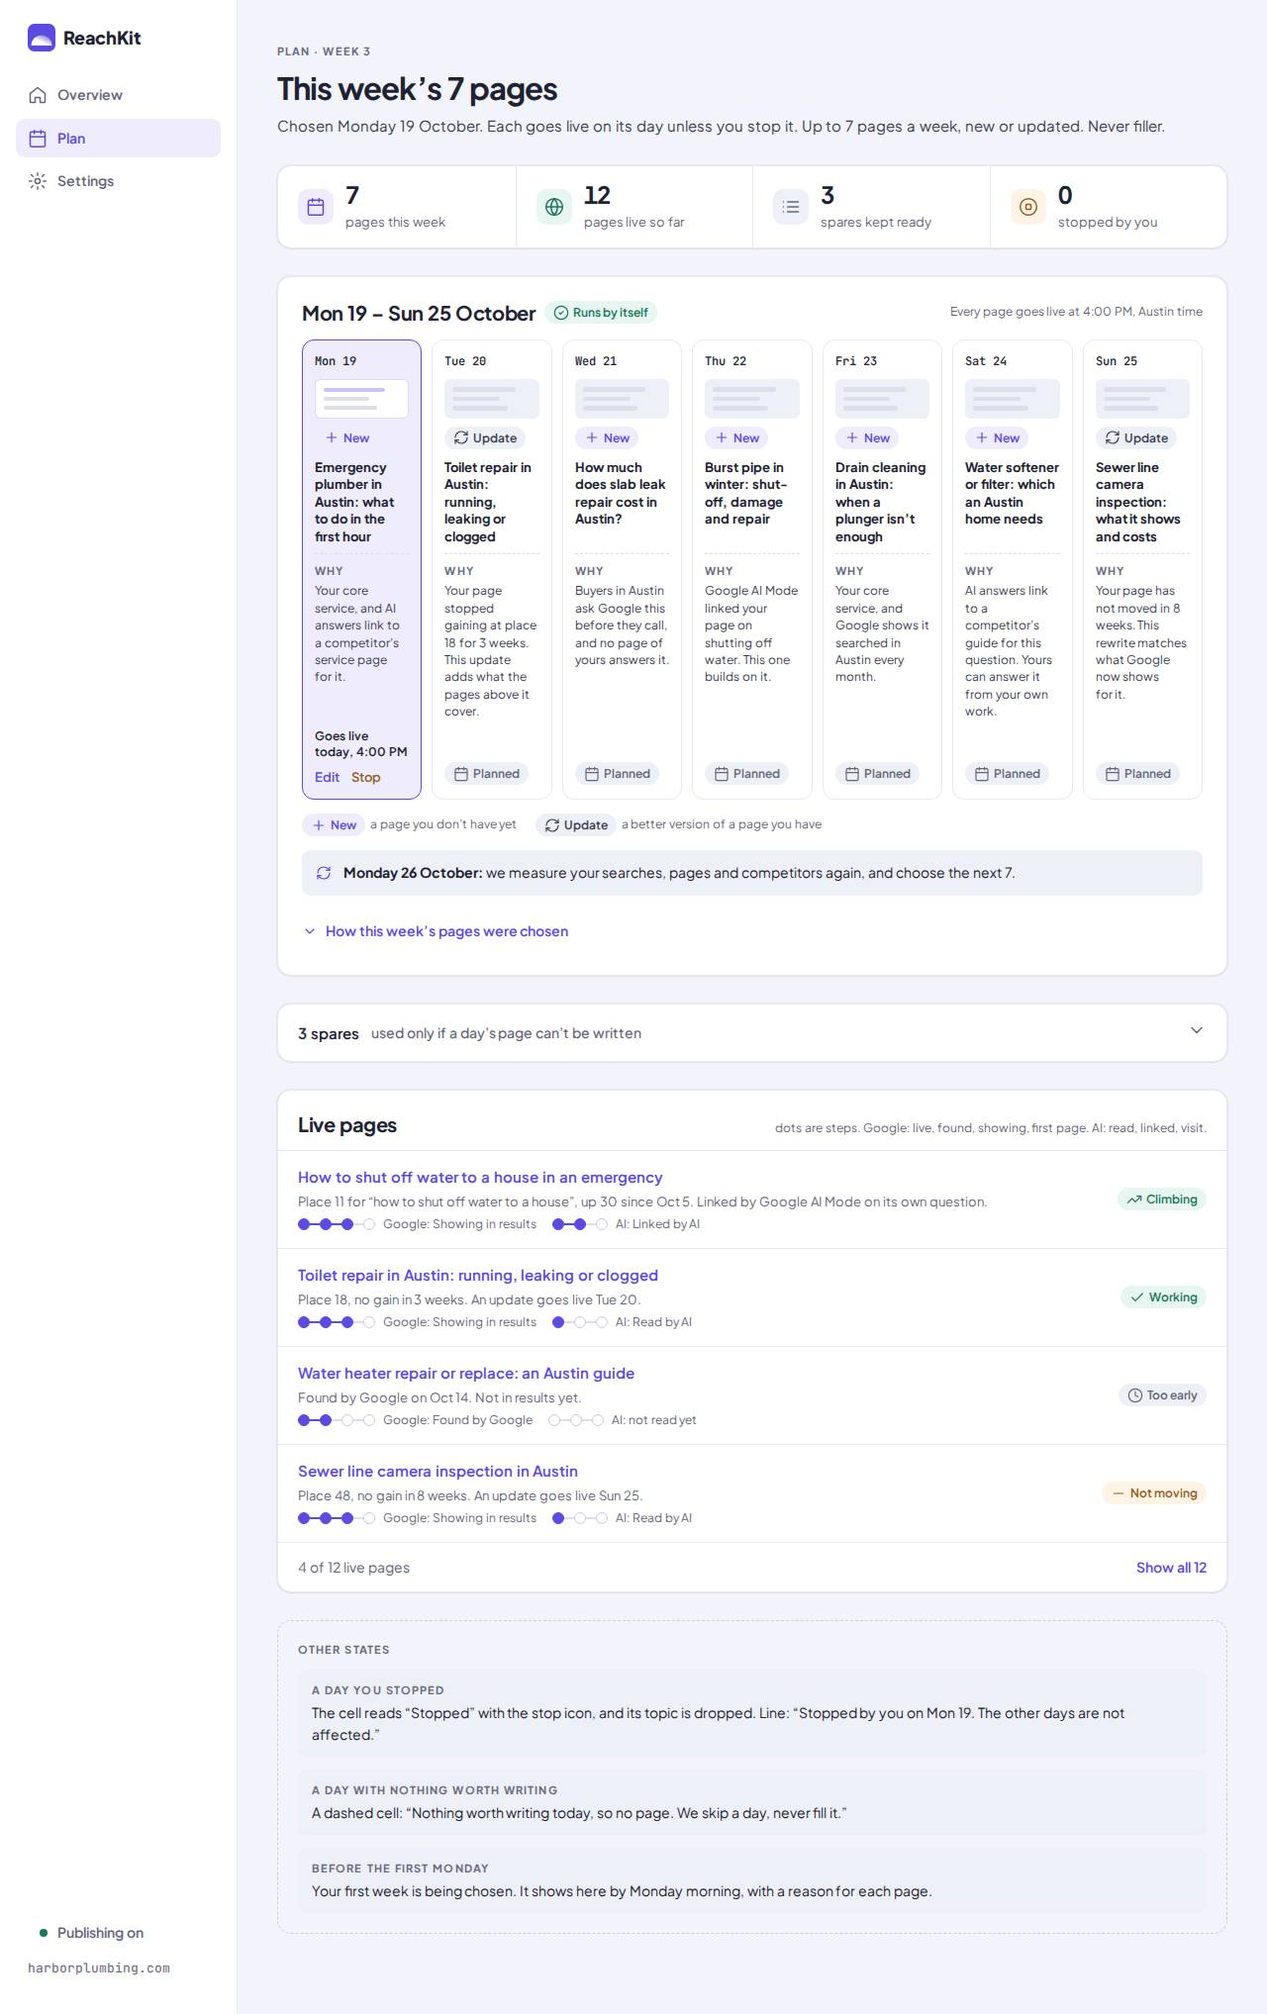
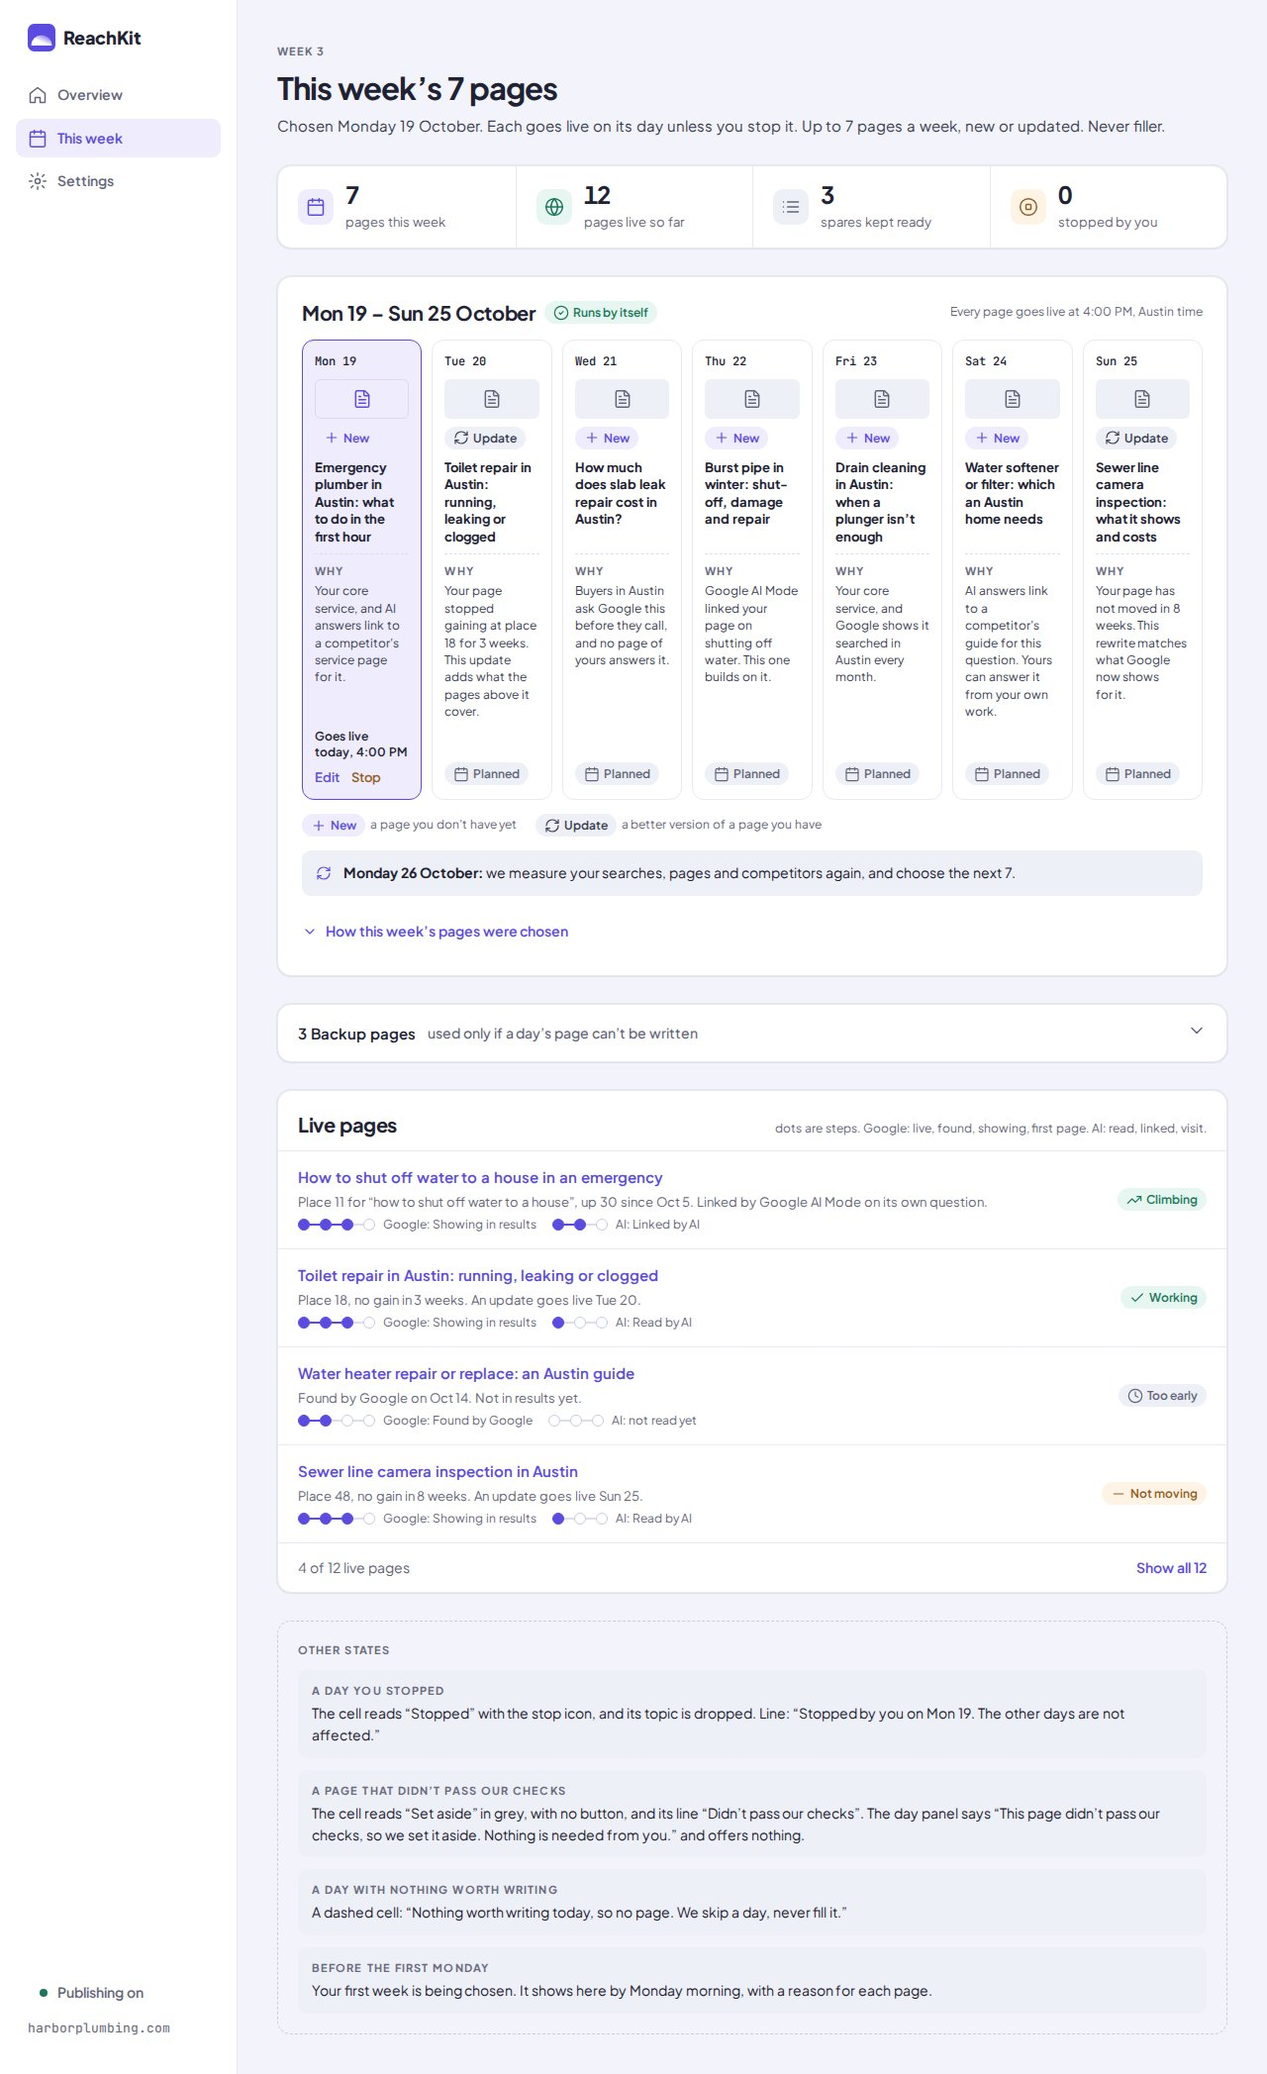
feat(app): the draft screen names a page's stage as This week does, and the boards draw a page set aside (O7)
The draft chip is the stage This week reads from the same row: a cause the
system rescues reads Planned, a page the re-check set aside wears the grey
Set aside chip with nothing to press, and a critical or unread cause still
reads Needs you. Board Plan names the set-aside day in its other states, and
board MondayMail draws the set-aside line after the published count; the
weekly preview carries one page set aside so the mail ships that line.

diff --git a/tests/app/draft/stage-chip.test.tsx b/tests/app/draft/stage-chip.test.tsx
@@ -1,0 +1,88 @@
+/** @vitest-environment jsdom */
+// Owner O7 on the draft screen: a page's chip is the stage This week names it at, read from the same stored row, so
+// a cause the system rescues or sets aside never reads Needs you, and a critical or unread one still does.
+import React from "react";
+import { renderToStaticMarkup } from "react-dom/server";
+import { afterEach, beforeEach, describe, expect, it, vi } from "vitest";
+import { fakeDb, type Row } from "../../publish/harness";
+import stored from "../../generate/fixtures/dogfood-drafts-2026-10.min.json";
+
+const db = fakeDb();
+vi.mock("@/lib/db", () => ({ dbAdmin: () => db.client, db: () => db.client }));
+vi.mock("@/app/(account)/app/draft/[draftId]/save", async (importOriginal) => {
+  const actual = await importOriginal<typeof import("@/app/(account)/app/draft/[draftId]/save")>();
+  return { ...actual, draftStore: { save: () => Promise.resolve() } };
+});
+
+import { COPY } from "@/lib/presentation/copy";
+import { readDraftRow } from "@/app/(account)/app/draft/[draftId]/store";
+import { assembleDraft } from "@/app/(account)/app/draft/[draftId]/model";
+import { DraftScreen } from "@/app/(account)/app/draft/[draftId]/DraftScreen";
+import { scheduledPagesFor } from "@/lib/publish/record";
+import { stageOf } from "@/app/(account)/app/calendar/stages";
+
+const NOW = new Date("2026-11-01T09:00:00.000Z");
+const SITE = { siteId: "site-1", timeZone: "UTC", mode: "autopilot" as const, domain: "example.com" };
+const PAGE = stored.drafts.find((draft) => draft.id.startsWith("d98284cc"))!;
+
+/** The stored page, with the moves and meta the named cause leaves on its row. */
+const as = (moves: Row[], meta: Row = {}): Row => ({
+  ...PAGE,
+  site_id: SITE.siteId,
+  state: moves.at(-1)?.to ?? PAGE.state,
+  meta: { ...PAGE.meta, ...meta },
+  transitions: [...PAGE.transitions, ...moves],
+  claim_check: null,
+  veto_deadline: null,
+  told: null,
+});
+const move = (from: string, to: string, reason: string, at = "2026-10-31T09:00:00.000Z"): Row => ({ at, from, to, actor: { kind: "system", job: "test" }, reason });
+const tried = [move("needs_attention", "generating", "customer_regenerate"), move("generating", "in_review", "rules_passed"), move("in_review", "approved", "window_closed"), move("approved", "publishing", "due"), move("publishing", "failed", "error")];
+
+const CASES = [
+  ["stopped by the writing rules, unedited", "planned", as([])],
+  ["a publish tried out yesterday, inside its daily re-attempts", "planned", as([...tried, move("failed", "needs_attention", "retries_exhausted")])],
+  ["set aside by the daily re-check", "set_aside", as([move("needs_attention", "skipped", "retired:plain_prose")])],
+  ["a destination the customer must fix", "needs_you", as([...tried, move("failed", "needs_attention", "reason_needs_customer")])],
+  ["the customer's own edit", "needs_you", as([], { first_edited_at: "2026-10-30T10:00:00.000Z" })],
+  ["a cause this build cannot read", "needs_you", as([move("needs_attention", "generating", "customer_regenerate"), move("generating", "needs_attention", "something_new")])],
+] as const;
+
+async function chip(row: Row): Promise<Element> {
+  db.seed("drafts", [row]);
+  const facts = await readDraftRow({ draftId: PAGE.id, site: SITE });
+  if (facts === null) throw new Error("the stored page did not read back");
+  const root = document.createElement("div");
+  root.innerHTML = renderToStaticMarkup(<DraftScreen view={assembleDraft(facts)} generatedLabel="written by ReachKit" />);
+  return root;
+}
+
+beforeEach(() => {
+  db.reset();
+  vi.useFakeTimers({ toFake: ["Date"] });
+  vi.setSystemTime(NOW);
+});
+afterEach(() => vi.useRealTimers());
+
+describe("the draft screen names a page's stage as This week does (owner O7)", () => {
+  it.each(CASES)("a page %s wears the %s chip, and only a critical cause reads Needs you", async (_case, stage, row) => {
+    const root = await chip(row);
+    const badge = root.querySelector('[data-testid^="draft-stage-"]');
+    expect(badge?.getAttribute("data-testid")).toBe(`draft-stage-${stage}`);
+    expect(root.textContent?.includes(COPY["calendar.stage.needs-you"])).toBe(stage === "needs_you");
+  });
+
+  it("a page set aside wears the grey Set aside chip and offers nothing to press", async () => {
+    const root = await chip(CASES[2][2]);
+    const badge = root.querySelector('[data-testid="draft-stage-set_aside"]')!;
+    expect([badge.textContent, badge.classList.contains("badge-ghost")]).toEqual([COPY["calendar.day.set-aside"], true]);
+    expect(root.querySelector('[data-testid="draft-actions"]')).toBeNull();
+  });
+
+  it.each(CASES)("a page %s reads the same on the draft screen and in the calendar's month read", async (_case, _stage, row) => {
+    const root = await chip(row);
+    const [page] = await scheduledPagesFor({ siteId: SITE.siteId, from: "2026-10-01", to: "2026-10-31", now: NOW });
+    const calendar = page.setAside ? "set_aside" : stageOf(page, NOW);
+    expect(root.querySelector('[data-testid^="draft-stage-"]')?.getAttribute("data-testid")).toBe(`draft-stage-${calendar}`);
+  });
+});

diff --git a/src/app/(account)/app/draft/[draftId]/DraftScreen.tsx b/src/app/(account)/app/draft/[draftId]/DraftScreen.tsx
@@ -59,13 +59,7 @@ import {
 } from "../../_shell/format";
 import { writtenLine } from "../../_shell/written";
 import { COMMAND_TARGET, publishing } from "../../calendar/publishing";
-import {
-  STAGE_FILTER_COPY_KEY,
-  STAGE_BEACON,
-  STAGE_OF,
-  STAGE_TONE,
-  TONE_BADGE,
-} from "../../calendar/stages";
+import { STAGE_OF, TONE_BADGE } from "../../calendar/stages";
 import { say } from "../../../../_toast/say";
 import { CLAIM_COPY_KEY, CLAIM_TONE, claimAfterSave } from "./claim";
 import { DecidePanel } from "./DecidePanel";
@@ -84,7 +78,7 @@ import { kindWord } from "../../calendar/card-lines";
 import { NO_LINK_RECORD, linksOnPage } from "./links-panel";
 import { useDebounced } from "./useDebounced";
 import { SHAPE } from "./shape";
-import { wordCount, type ClaimState, type DraftView } from "./model";
+import { stageChipOf, wordCount, type ClaimState, type DraftView } from "./model";
 import { NO_CHECKS, type RecordedChecks } from "@/lib/generate/rules/types";
 
 /** The three fields the founder edits (#789), as one value: the buffer, the
@@ -440,11 +434,10 @@ export function DraftScreen(p: {
       ? writtenLine("draft.claim.matched", { entry: claim.matchedEntry })
       : null;
 
-  /** The stage, spoken through the calendar's own projection so the two
-   *  surfaces cannot call one state by two names. `null` for a state that
-   *  occupies no date at all, which draws no chip rather than an unnamed
-   *  one — and is what a stopped page reads as the moment Stop is pressed. */
-  const stage = STAGE_OF[state];
+  /** The stage as This week names the page read; a press in flight projects its asked-for state through the calendar's
+   *  table, as the day panel does. `null` draws no chip, which is what a stopped page reads as the moment Stop is pressed. */
+  const stage = state === view.state ? view.stage : STAGE_OF[state];
+  const chip = stage === null ? null : stageChipOf(stage);
   /** A new page or an update of one the site has; nothing where unread. */
   const update = view.target.kind !== "unknown" && (view.target.kind === "fix" || view.target.update === true);
   const KindIcon = update ? RefreshCw : Plus;
@@ -472,9 +465,9 @@ export function DraftScreen(p: {
   /** The stage badge, with the stage's dot — which pulses on *Your review*
    *  and *Live*, the calm layer's one loop (`STAGE_BEACON`). */
   const stageBadge =
-    stage === null ? null : (
+    chip === null ? null : (
       <span
-        className={`badge badge-soft ${TONE_BADGE[STAGE_TONE[stage]]}`}
+        className={`badge badge-soft ${TONE_BADGE[chip.tone]}`}
         data-testid={`draft-stage-${stage}`}
       >
         {/* Ready draws the board's tick; every other stage keeps its dot. */}
@@ -482,11 +475,11 @@ export function DraftScreen(p: {
           <CircleCheck className="size-3.5 shrink-0" strokeWidth={1.75} aria-hidden />
         ) : (
           <span
-            className={`size-1.5 shrink-0 rounded-full bg-current ${STAGE_BEACON[stage]}`}
+            className={`size-1.5 shrink-0 rounded-full bg-current ${chip.beacon}`}
             aria-hidden
           />
         )}
-        {copy(STAGE_FILTER_COPY_KEY[stage])}
+        {copy(chip.word)}
       </span>
     );
 

diff --git a/docs/design/boards/canvas/Plan.dc.html b/docs/design/boards/canvas/Plan.dc.html
@@ -231,7 +231,7 @@ h1,h2,h3,.h1{text-wrap:balance}p,li{text-wrap:pretty}
       <div class="lrow" style="font-size: 14px"><span class="muted">4 of 12 live pages</span><a href="#" style="font-weight: 600">Show all 12</a></div>
     </section>
 
-    <section class="states" aria-label="Other states of this screen"><p class="eyebrow">Other states</p><div class="state"><span class="eyebrow">A day you stopped</span><span>The cell reads “Stopped” with the stop icon, and its topic is dropped. Line: “Stopped by you on Mon 19. The other days are not affected.”</span></div><div class="state"><span class="eyebrow">A day with nothing worth writing</span><span>A dashed cell: “Nothing worth writing today, so no page. We skip a day, never fill it.”</span></div><div class="state"><span class="eyebrow">Before the first Monday</span><span>Your first week is being chosen. It shows here by Monday morning, with a reason for each page.</span></div></section>
+    <section class="states" aria-label="Other states of this screen"><p class="eyebrow">Other states</p><div class="state"><span class="eyebrow">A day you stopped</span><span>The cell reads “Stopped” with the stop icon, and its topic is dropped. Line: “Stopped by you on Mon 19. The other days are not affected.”</span></div><div class="state"><span class="eyebrow">A page that didn’t pass our checks</span><span>The cell reads “Set aside” in grey, with no button, and its line “Didn’t pass our checks”. The day panel says “This page didn’t pass our checks, so we set it aside. Nothing is needed from you.” and offers nothing.</span></div><div class="state"><span class="eyebrow">A day with nothing worth writing</span><span>A dashed cell: “Nothing worth writing today, so no page. We skip a day, never fill it.”</span></div><div class="state"><span class="eyebrow">Before the first Monday</span><span>Your first week is being chosen. It shows here by Monday morning, with a reason for each page.</span></div></section>
 
   </main>
   <nav class="dock" aria-label="Main"><a href="Main.dc.html"><svg viewBox="0 0 24 24" aria-hidden="true"><path d="M3 10l9-7 9 7v10a1 1 0 0 1-1 1h-5v-6H9v6H4a1 1 0 0 1-1-1z"></path></svg>Overview</a><a href="#" aria-current="page"><svg viewBox="0 0 24 24" aria-hidden="true"><rect x="3" y="4" width="18" height="18" rx="2"></rect><path d="M16 2v4M8 2v4M3 10h18"></path></svg>This week</a><a href="SettingsIndex.dc.html"><svg viewBox="0 0 24 24" aria-hidden="true"><circle cx="12" cy="12" r="3"></circle><path d="M12 2v3M12 19v3M4.2 4.2l2.1 2.1M17.7 17.7l2.1 2.1M2 12h3M19 12h3M4.2 19.8l2.1-2.1M17.7 6.3l2.1-2.1"></path></svg>Settings</a></nav>

diff --git a/src/app/(account)/app/draft/[draftId]/model.ts b/src/app/(account)/app/draft/[draftId]/model.ts
@@ -30,7 +30,8 @@ import type { PageType, PlanReason } from "@/lib/opportunities/types";
 import { weekStartFor } from "@/lib/scan/weekly/week";
 import type { RecordedChecks } from "@/lib/generate/rules/types";
 import type { PublishingMode } from "../../_shell/model";
-import type { State } from "../../calendar/stages";
+import { DAY_STATE_COPY_KEY, DAY_STATE_TONE, STAGE_BEACON, STAGE_FILTER_COPY_KEY, STAGE_OF, STAGE_TONE, type Stage, type State } from "../../calendar/stages";
+import type { Tone } from "@/ui/types";
 import { factPresentIn } from "./grounded";
 
 /** REQ-045 criterion 3's four outcomes. `nothing_to_check` is the empty
@@ -301,6 +302,8 @@ export interface DraftView {
    *  label truthful and what an unedited page's copy-out is identical to. */
   bodyMdGenerated: string;
   state: State;
+  /** The chip This week draws for `state`; `null` draws none. */
+  stage: DraftStage;
   /** Whether the page ever entered review (#1180): a stopped page that
    *  never did may be edited, written again or skipped. */
   enteredReview: boolean;
@@ -422,6 +425,16 @@ export interface KnownCheck {
 
 /** Everything the draft view reads, before it is a model. One shape, so the
  *  fixture and a future query answer the same question. */
+/** A page's stage, or This week's grey *Set aside* day for one the daily re-check set aside. */
+export type DraftStage = Stage | "set_aside" | null;
+
+/** The chip's word, tone and dot for a stage, in This week's words. */
+export function stageChipOf(stage: Stage | "set_aside"): { word: CopyKey; tone: Tone; beacon: string } {
+  return stage === "set_aside"
+    ? { word: DAY_STATE_COPY_KEY.set_aside, tone: DAY_STATE_TONE.set_aside, beacon: "" }
+    : { word: STAGE_FILTER_COPY_KEY[stage], tone: STAGE_TONE[stage], beacon: STAGE_BEACON[stage] };
+}
+
 export interface DraftFacts {
   draftId: string;
   title: string;
@@ -433,6 +446,8 @@ export interface DraftFacts {
   bodyMd: string;
   bodyMdGenerated: string;
   state: State;
+  /** The stage This week names the page at, from its record (owner O7); absent reads `state` through `STAGE_OF`. */
+  stage?: DraftStage;
   /** Whether §9's record shows the page in review at any point (#1180). */
   enteredReview: boolean;
   /** Set on the first save that changed the text; `null` on a draft the
@@ -543,6 +558,7 @@ export function assembleDraft(facts: DraftFacts): DraftView {
     bodyMd: facts.bodyMd,
     bodyMdGenerated: facts.bodyMdGenerated,
     state: facts.state,
+    stage: facts.stage ?? STAGE_OF[facts.state],
     enteredReview: facts.enteredReview,
     authorship:
       facts.firstEditedAt === null

diff --git a/src/app/(account)/app/draft/[draftId]/store.ts b/src/app/(account)/app/draft/[draftId]/store.ts
@@ -58,7 +58,8 @@ import {
   recordedChecks,
 } from "@/lib/generate/record";
 import type { PublishingMode } from "../../_shell/model";
-import type { State } from "../../calendar/stages";
+import { stageOf, type State } from "../../calendar/stages";
+import { needsYouOf, setAsideOf } from "@/lib/publish/record/needs-you";
 import { pageRecordFor } from "@/lib/publish/record";
 import { readingOf } from "@/lib/measure/page-reading";
 import { verdict } from "@/lib/opportunities/verdicts/verdict";
@@ -542,6 +543,10 @@ export async function readDraftRow(a: {
     linkRecord: linkRecordAt(row.meta),
     domain: a.site.domain,
     state: row.state as State,
+    // From the same record and clock This week reads, so the two cannot name one page twice (owner O7).
+    stage: setAsideOf({ state: row.state as State, transitions: row.transitions })
+      ? "set_aside"
+      : stageOf({ state: row.state as State, needsYou: needsYouOf({ state: row.state as State, transitions: row.transitions, meta: row.meta }) }, at),
     // The fact §9's `never_entered_review` guard reads (#1180).
     enteredReview:
       Array.isArray(row.transitions) &&

diff --git a/docs/design/boards/canvas/MondayMail.dc.html b/docs/design/boards/canvas/MondayMail.dc.html
@@ -181,6 +181,10 @@ p,li,dd{text-wrap:pretty}
   </table>
 </td></tr>
 
+<tr><td style="padding: 12px 20px 0">
+  <p style="margin: 0; font-family: 'Plus Jakarta Sans', Arial, Helvetica, sans-serif; font-size: 14px; color: #3a3d52">One page didn’t pass our checks. We set it aside and wrote the next one.</p>
+</td></tr>
+
 <tr><td style="padding: 16px 20px 0">
   <h2 style="margin: 0; font-family: 'Plus Jakarta Sans', Arial, Helvetica, sans-serif; font-size: 16px; font-weight: 700; color: #1e2233">Google</h2>
   <table role="presentation" width="100%" cellpadding="0" cellspacing="0" border="0">

diff --git a/tests/mail/preview/preview.test.ts b/tests/mail/preview/preview.test.ts
@@ -188,6 +188,7 @@ describe("issue #376 — the shell renders S20, and every kind the set draws wea
       "Hi Dana, here’s week 3 for harborplumbing.example.",
       "Nothing needs you this week. Each page goes live at 4:00 PM on its day.",
       COPY["mail.weekly.pages.live"],
+      COPY["mail.weekly.setAside.one"],
       COPY["mail.weekly.google.title"],
       "Showing on Google · 2 moving up",
       "9 visits from Google this week, up from 4.",

diff --git a/tests/mail/preview/kinds.ts b/tests/mail/preview/kinds.ts
@@ -272,6 +272,7 @@ export async function composePreview(kind: PreviewKind): Promise<PreviewMail> {
         numbers: {
           live: measured(12, AT),
           planned: measured(7, AT),
+          setAside: { n: 1, replaced: true },
           google: {
             steps: (["draft.ladder.found", "draft.ladder.showing", "draft.ladder.first-page"] as const).map((name, i) => ({
               name,

diff --git a/docs/spec/decisions/2026-11-01-2227.md b/docs/spec/decisions/2026-11-01-2227.md
@@ -1,0 +1,5 @@
+---
+section: §7
+---
+
+2026-11-01  **The boards draw a page set aside, and the draft screen names its stage as This week does** (owner O7, 2026-10-31, "quietly dropped, never parked waiting for the customer"; #2227, the remainder of #2164). Board Plan's *Other states* names the set-aside day: the cell reads "Set aside" in grey with no button and the line "Didn’t pass our checks", and the day panel says the page was set aside and that nothing is needed. Board MondayMail draws "One page didn’t pass our checks. We set it aside and wrote the next one." right after the published count, with no link and no button. The draft screen's chip is the stage This week reads from the same row: a cause that is not critical reads Planned, a page set aside reads the grey Set aside with no action, and a critical or unread cause still reads Needs you. Consequences: both boards are re-fingerprinted with `missing` and plain words unchanged; the `weekly` preview fixture carries one page set aside, so the board's line is one the mail ships. AppDraft is not redrawn: the chip reuses This week's words.
